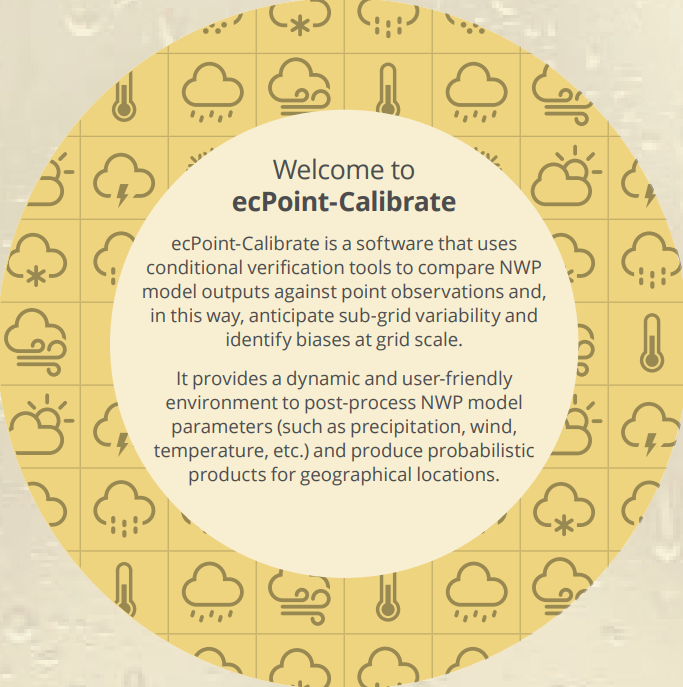
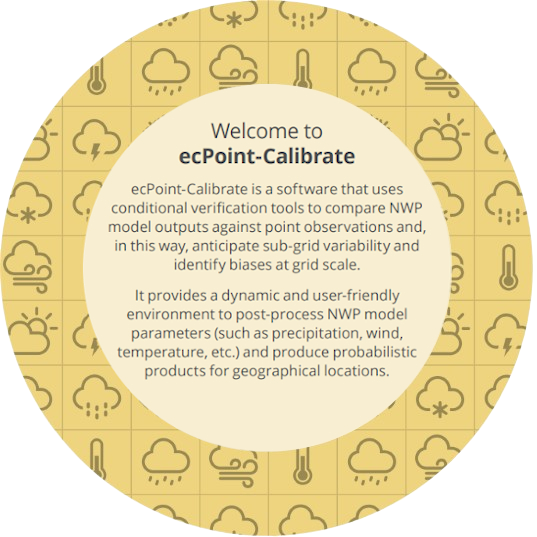
GH-51: Use updated background image

diff --git a/ui/assets/css/main.css b/ui/assets/css/main.css
@@ -16,6 +16,10 @@ body {
 
 .background {
   background: #fff2cc;
+  background-image: url("../img/background.jpg");
+  background-position: center; /* Center the image */
+  background-repeat: no-repeat; /* Do not repeat the image */
+  background-size: cover; /* Resize the background image to cover the entire container */
 }
 
 .card > .header {
